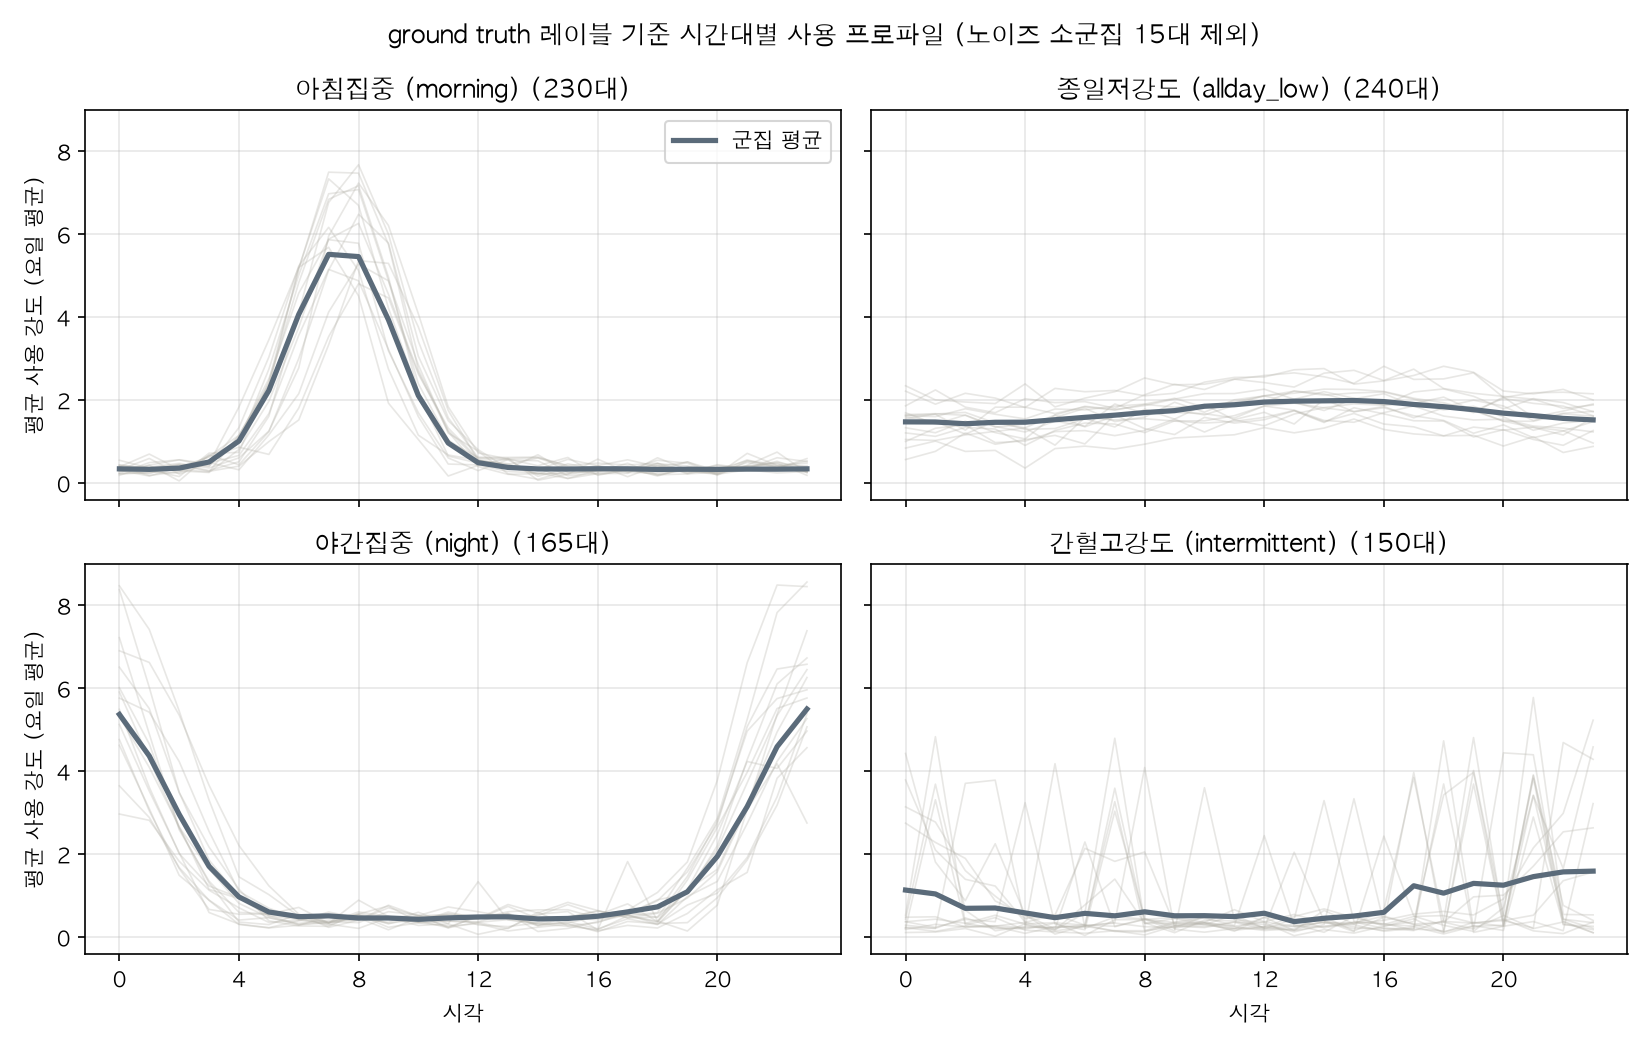
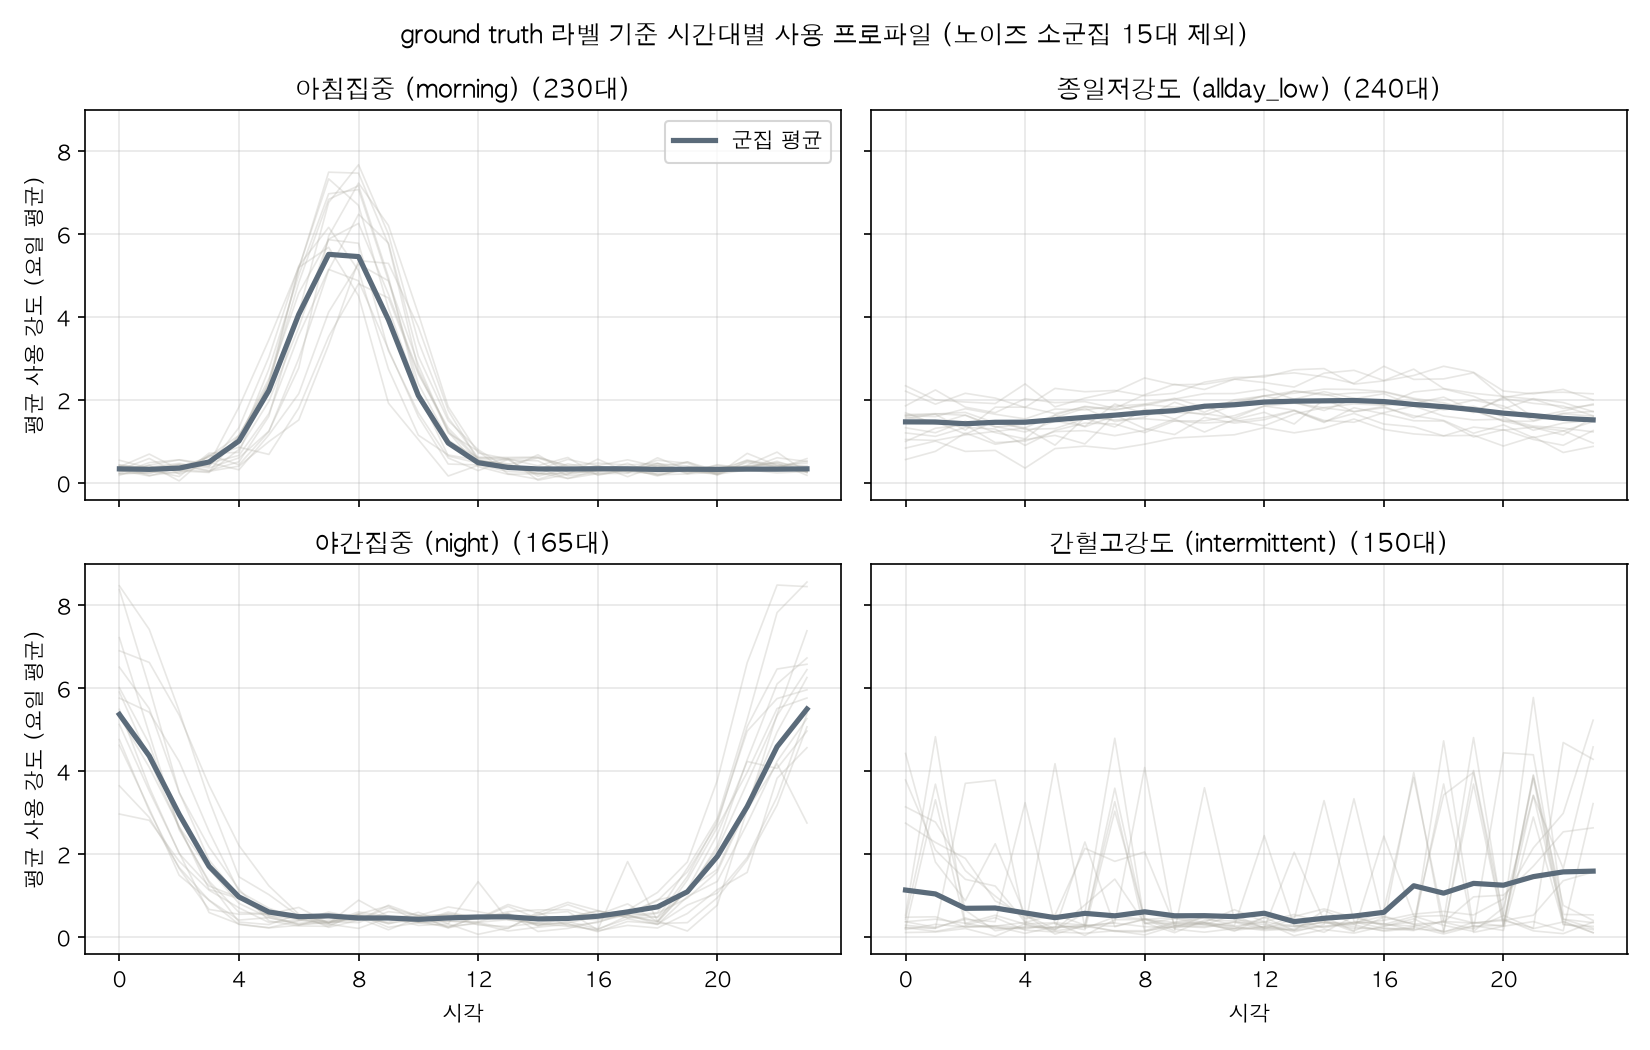
usage: scaling_compare 라벨 갱신

Changed region(s): [[0.2164, 0.0, 0.7727, 0.061]]

diff --git a/usage-pattern-clustering/scripts/02_cluster_naive.py b/usage-pattern-clustering/scripts/02_cluster_naive.py
@@ -29,10 +29,10 @@ pred = km.fit_predict(X)
 df = df.assign(pred_cluster=pred)
 
 ari = adjusted_rand_score(df["true_cluster"], pred)
-print(f"ARI (스케일링 없음, k={K}): {ari:.3f}")
+print(f"ARI (scaling 없음, k={K}): {ari:.3f}")
 
 crosstab = pd.crosstab(df["true_cluster"], df["pred_cluster"], margins=True)
-print("\n교차표 (정답 레이블 × 예측 군집)")
+print("\n교차표 (정답 라벨 × 예측 군집)")
 print(crosstab.to_string())
 
 usage_by_pred = df.groupby("pred_cluster")["total_usage"].agg(["mean", "std", "count"])
@@ -42,7 +42,7 @@ print(usage_by_pred.to_string())
 
 var_hourly_sum = df[hour_cols].var().sum()
 var_total_usage = df["total_usage"].var()
-print(f"\n시간대 피처 168개 분산의 합: {var_hourly_sum:,.1f}")
+print(f"\n시간대 feature 168개 분산의 합: {var_hourly_sum:,.1f}")
 print(f"total_usage 하나의 분산:      {var_total_usage:,.1f}")
 print(f"total_usage가 전체 분산에서 차지하는 비율: {var_total_usage / (var_hourly_sum + var_total_usage):.1%}")
 print("total_usage 한 열이 이 비율이면 K-means 경계는 사용 모양이 아니라 총량으로 갈림")
@@ -81,7 +81,7 @@ for ax in profile_axes[2:]:
 for ax in [profile_axes[0], profile_axes[2]]:
     ax.set_ylabel("평균 사용 강도")
 
-fig.suptitle(f"스케일링 없는 K-means (k={K}), total_usage 오름차순 (ARI={ari:.3f})")
+fig.suptitle(f"scaling 없는 K-means (k={K}), total_usage 오름차순 (ARI={ari:.3f})")
 fig.tight_layout()
 fig.savefig(base / "outputs" / "figures" / "fig2_naive_kmeans.png", dpi=150)
 print(f"\n플롯 저장: {base / 'outputs' / 'figures' / 'fig2_naive_kmeans.png'}")

diff --git a/usage-pattern-clustering/scripts/03_cluster_scaled.py b/usage-pattern-clustering/scripts/03_cluster_scaled.py
@@ -30,8 +30,8 @@ X_raw = df[feature_cols].to_numpy()
 
 skew_hourly = skew(df[hour_cols].to_numpy(), axis=0)
 skew_total = skew(df["total_usage"].to_numpy())
-print("피처 skewness (0이면 대칭)")
-print(f"  시간대 피처 168개: 평균 {skew_hourly.mean():.2f}, 최대 {skew_hourly.max():.2f} (버스트 셀 영향)")
+print("feature skewness (0이면 대칭)")
+print(f"  시간대 feature 168개: 평균 {skew_hourly.mean():.2f}, 최대 {skew_hourly.max():.2f} (버스트 셀 영향)")
 print(f"  total_usage:        {skew_total:.2f}")
 print()
 
@@ -109,7 +109,7 @@ def plot_result(pred: np.ndarray, method: str, fname: str) -> None:
 
 
 # 02 결과를 읽지 않고 같은 seed로 재계산. 같다는 건 stdout으로만 확인
-naive = run_kmeans(X_raw, "스케일링 없음 (02 재계산)")
+naive = run_kmeans(X_raw, "scaling 없음 (02 재계산)")
 
 X_std = StandardScaler().fit_transform(X_raw)
 result_std = run_kmeans(X_std, "표준화만 (StandardScaler)")
@@ -131,7 +131,7 @@ summary = pd.DataFrame(
     ]
 )
 summary["ARI 변화(1차 대비)"] = summary["ARI"] - summary.loc[0, "ARI"]
-print("스케일링 방법별 ARI")
+print("scaling 방법별 ARI")
 print(summary.to_string(index=False))
 
 res_dir = base / "outputs" / "results"

diff --git a/usage-pattern-clustering/scripts/01_generate_usage_profiles.py b/usage-pattern-clustering/scripts/01_generate_usage_profiles.py
@@ -143,7 +143,7 @@ df.to_csv(data_dir / "usage_profiles.csv", index=False)
 
 print(f"usage_profiles.csv 저장: {len(df)}행 x {len(df.columns)}열")
 print(df["true_cluster"].value_counts().to_string())
-print(f"집계 피처 범위: {df[feature_cols].values.min():.2f} ~ {df[feature_cols].values.max():.2f}")
+print(f"집계 feature 범위: {df[feature_cols].values.min():.2f} ~ {df[feature_cols].values.max():.2f}")
 print(f"total_usage 범위: {df['total_usage'].min():.0f} ~ {df['total_usage'].max():.0f}")
 
 # 검증 플롯. 요일 평균으로 접음
@@ -175,7 +175,7 @@ for ax in axes[1]:
     ax.set_xlabel("시각")
 for ax in axes[:, 0]:
     ax.set_ylabel("평균 사용 강도 (요일 평균)")
-fig.suptitle("ground truth 레이블 기준 시간대별 사용 프로파일 (노이즈 소군집 15대 제외)")
+fig.suptitle("ground truth 라벨 기준 시간대별 사용 프로파일 (노이즈 소군집 15대 제외)")
 fig.tight_layout()
 fig.savefig(fig_dir / "fig1_true_profiles.png", dpi=150)
 print(f"검증 플롯 저장: {fig_dir / 'fig1_true_profiles.png'}")

diff --git a/usage-pattern-clustering/scripts/04_select_k.py b/usage-pattern-clustering/scripts/04_select_k.py
@@ -50,7 +50,7 @@ print("k sweep (log1p + 표준화, KMeans n_init=10)")
 print(sweep.round(3).to_string(index=False))
 print()
 
-print("k별 군집 구성: 크기 (최다 정답 레이블, 순도)")
+print("k별 군집 구성: 크기 (최다 정답 라벨, 순도)")
 for k in K_RANGE:
     pred = preds[k]
     parts = []
@@ -120,8 +120,8 @@ for ax, k in zip(axes, (4, 5)):
     ax.set_xticks(comp.index)
     ax.grid(alpha=0.3, axis="y")
 axes[0].set_ylabel("기기 수")
-axes[1].legend(title="ground truth 레이블", fontsize=8, loc="upper right")
-fig.suptitle("k=4 vs k=5: 예측 군집별 ground truth 레이블 구성")
+axes[1].legend(title="ground truth 라벨", fontsize=8, loc="upper right")
+fig.suptitle("k=4 vs k=5: 예측 군집별 ground truth 라벨 구성")
 fig.tight_layout()
 fig.savefig(fig_dir / "fig6_k4_vs_k5.png", dpi=150)
 print(f"플롯 저장: {fig_dir / 'fig6_k4_vs_k5.png'}")

diff --git a/usage-pattern-clustering/scripts/05_profile_clusters.py b/usage-pattern-clustering/scripts/05_profile_clusters.py
@@ -61,7 +61,7 @@ LABELS = {
     4: "아침 집중형: 평일 6~10시 피크",
 }
 
-print("군집별 평균 z-score (파생 피처)")
+print("군집별 평균 z-score (파생 feature)")
 print(z_by_cluster.round(2).to_string())
 print()
 
@@ -74,7 +74,7 @@ for c in range(K):
     print(f"  근거 z-score: {signs}")
 print()
 
-print("사후 검증, 예측 군집 x 정답 레이블")
+print("사후 검증, 예측 군집 x 정답 라벨")
 print(pd.crosstab(df["pred_cluster"], df["true_cluster"]).to_string())
 
 fig, (ax_hm, ax_prof) = plt.subplots(1, 2, figsize=(14, 5.5), gridspec_kw={"width_ratios": [1.2, 1]})

diff --git a/usage-pattern-clustering/README.md b/usage-pattern-clustering/README.md
@@ -2,7 +2,7 @@
 
 [사용 패턴 세그멘테이션: 클러스터링의 함정들](https://analysis-archive.vercel.app/analyses/usage-pattern-clustering) 재현 코드.
 
-원본은 실제 기기 사용 로그로 했던 사용 패턴 세그멘테이션. scaling을 빼면 총량 하나가 분산을 지배해 군집이 총량 구간 분할이 되고, 지표가 고른 k=5의 실체는 행동 세그먼트 4개와 이상집단 1개였다. 클러스터링은 정답이 없어 틀려도 티가 안 나서, 여기서는 정답 군집과 함정을 심은 가상 프로파일을 만들어 같은 절차를 돌리고 어디서 틀리는지 본다 (실제 데이터 없음).
+클러스터링은 ground truth 라벨이 없어 결과가 틀려도 드러나지 않는다. 그래서 ground truth 군집 4개와 함정 3종을 넣은 가상 프로파일 800대를 만들고, 원본(기기 사용 로그 세그멘테이션)과 같은 순서로 scaling 없는 K-means부터 k sweep까지 돌려 정답과 대조한다. 원본에서 확인한 문제는 두 가지. scaling을 빼면 총량 한 열이 분산을 지배해 군집이 총량 구간 분할이 되는 것, 지표가 고른 k=5의 실체가 행동 세그먼트 4개 + 이상집단 1개였던 것. 실제 로그 없음.
 
 ## 실행
 
@@ -11,9 +11,7 @@ python -m venv .venv && .venv/bin/pip install -r requirements.txt
 for s in scripts/0*.py; do .venv/bin/python "$s"; done
 ```
 
-전체 12초 정도. 경로는 파일 위치 기준이라 어디서 실행해도 된다.
-
-재현에 쓴 버전: Python 3.14, numpy 2.5, pandas 3.0, scipy 1.18, scikit-learn 1.9, matplotlib 3.11. 이 조합에서는 `data/`를 지우고 다시 돌려도 데이터와 결과 CSV가 동일.
+12초 정도. Python 3.14, numpy 2.5, pandas 3.0, scipy 1.18, scikit-learn 1.9, matplotlib 3.11.
 
 ## 스크립트
 
@@ -25,6 +23,8 @@ for s in scripts/0*.py; do .venv/bin/python "$s"; done
 | 04 | k=2~10 sweep (inertia, silhouette, ARI), k=4 vs 5 대조 | `k_sweep.csv`, `k_composition.csv`, `fig5~6` |
 | 05 | 최종 군집 (k=5) z-score 프로파일과 비즈니스 라벨 | `cluster_zscore.csv`, `cluster_labels.csv`, `fig7` |
 
+`scaling_compare.csv`의 방법 열은 03의 문자열 그대로.
+
 ## 시도 순서와 숫자
 
 - 02: ARI 0.238, 사실상 랜덤. 분산 비율 99.8%는 거리 계산을 total_usage 한 열이 다 정했다는 뜻
@@ -33,11 +33,11 @@ for s in scripts/0*.py; do .venv/bin/python "$s"; done
 
 ## 데이터
 
-`usage_profiles.csv` 800행 x 171열. `device_id`(D0000~D0799), `u_{dow}_h{HH}` 168열 (요일 x 시각 평균 사용 강도, 0~10), `total_usage`(0~5000, 셀 합 x 3.5 + noise), `true_cluster`(morning / allday_low / night / intermittent / noise). 정답 열은 채점 전용이고 클러스터링 입력에 안 들어간다.
+`usage_profiles.csv` 800행 x 171열. `device_id`(D0000~D0799), `u_{dow}_h{HH}` 168열 (요일 x 시각 평균 사용 강도, 0~10), `total_usage`(0~5000, 셀 합 x 3.5 + noise), `true_cluster`(morning / allday_low / night / intermittent / noise). ground truth 열은 평가 전용이고 클러스터링 입력에 안 들어간다.
 
 세그멘테이션 시리즈 2편은 이 폴더의 생성기를 그대로 복사해 쓴다. 01을 고치면 여기 pipeline 전체를 다시 돌려야 함.
 
-## 심어둔 구조
+## 넣은 구조
 
 - 진짜 군집 4개: morning 230, allday_low 240, night 165, intermittent 150
 - 함정 1. `total_usage`만 스케일이 커서 scaling 없이는 이 축이 거리를 지배. `naive_kmeans_summary.csv`의 분산 비율 0.998
